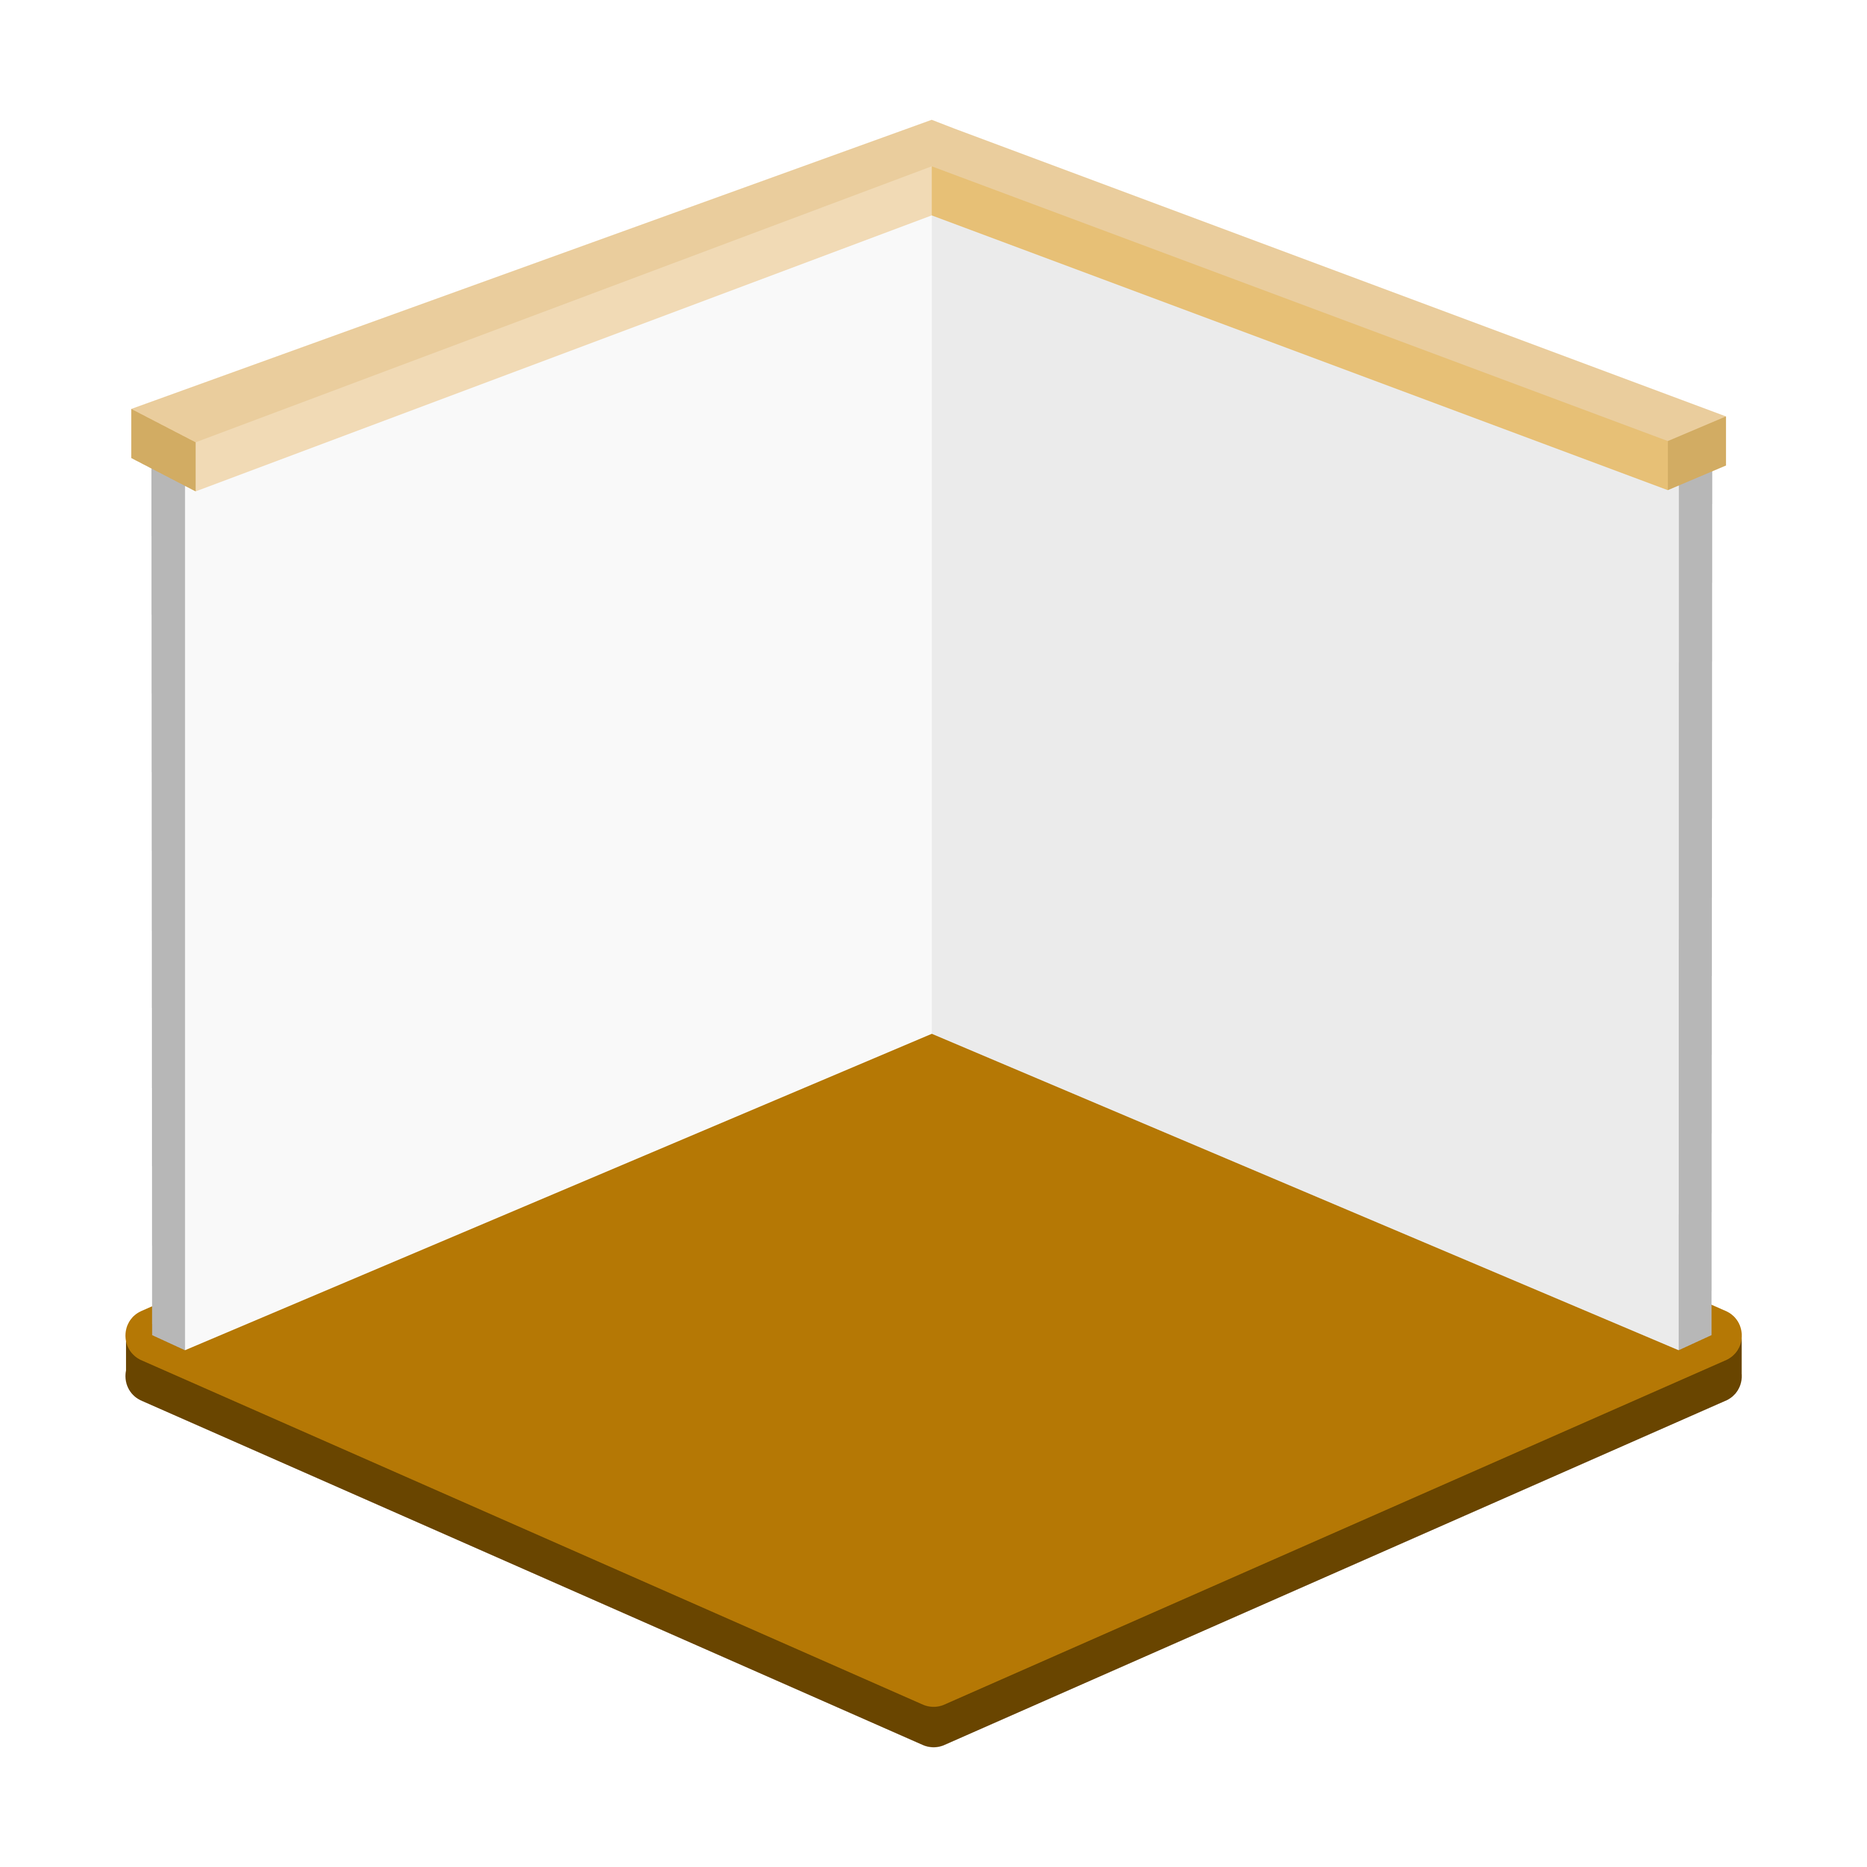
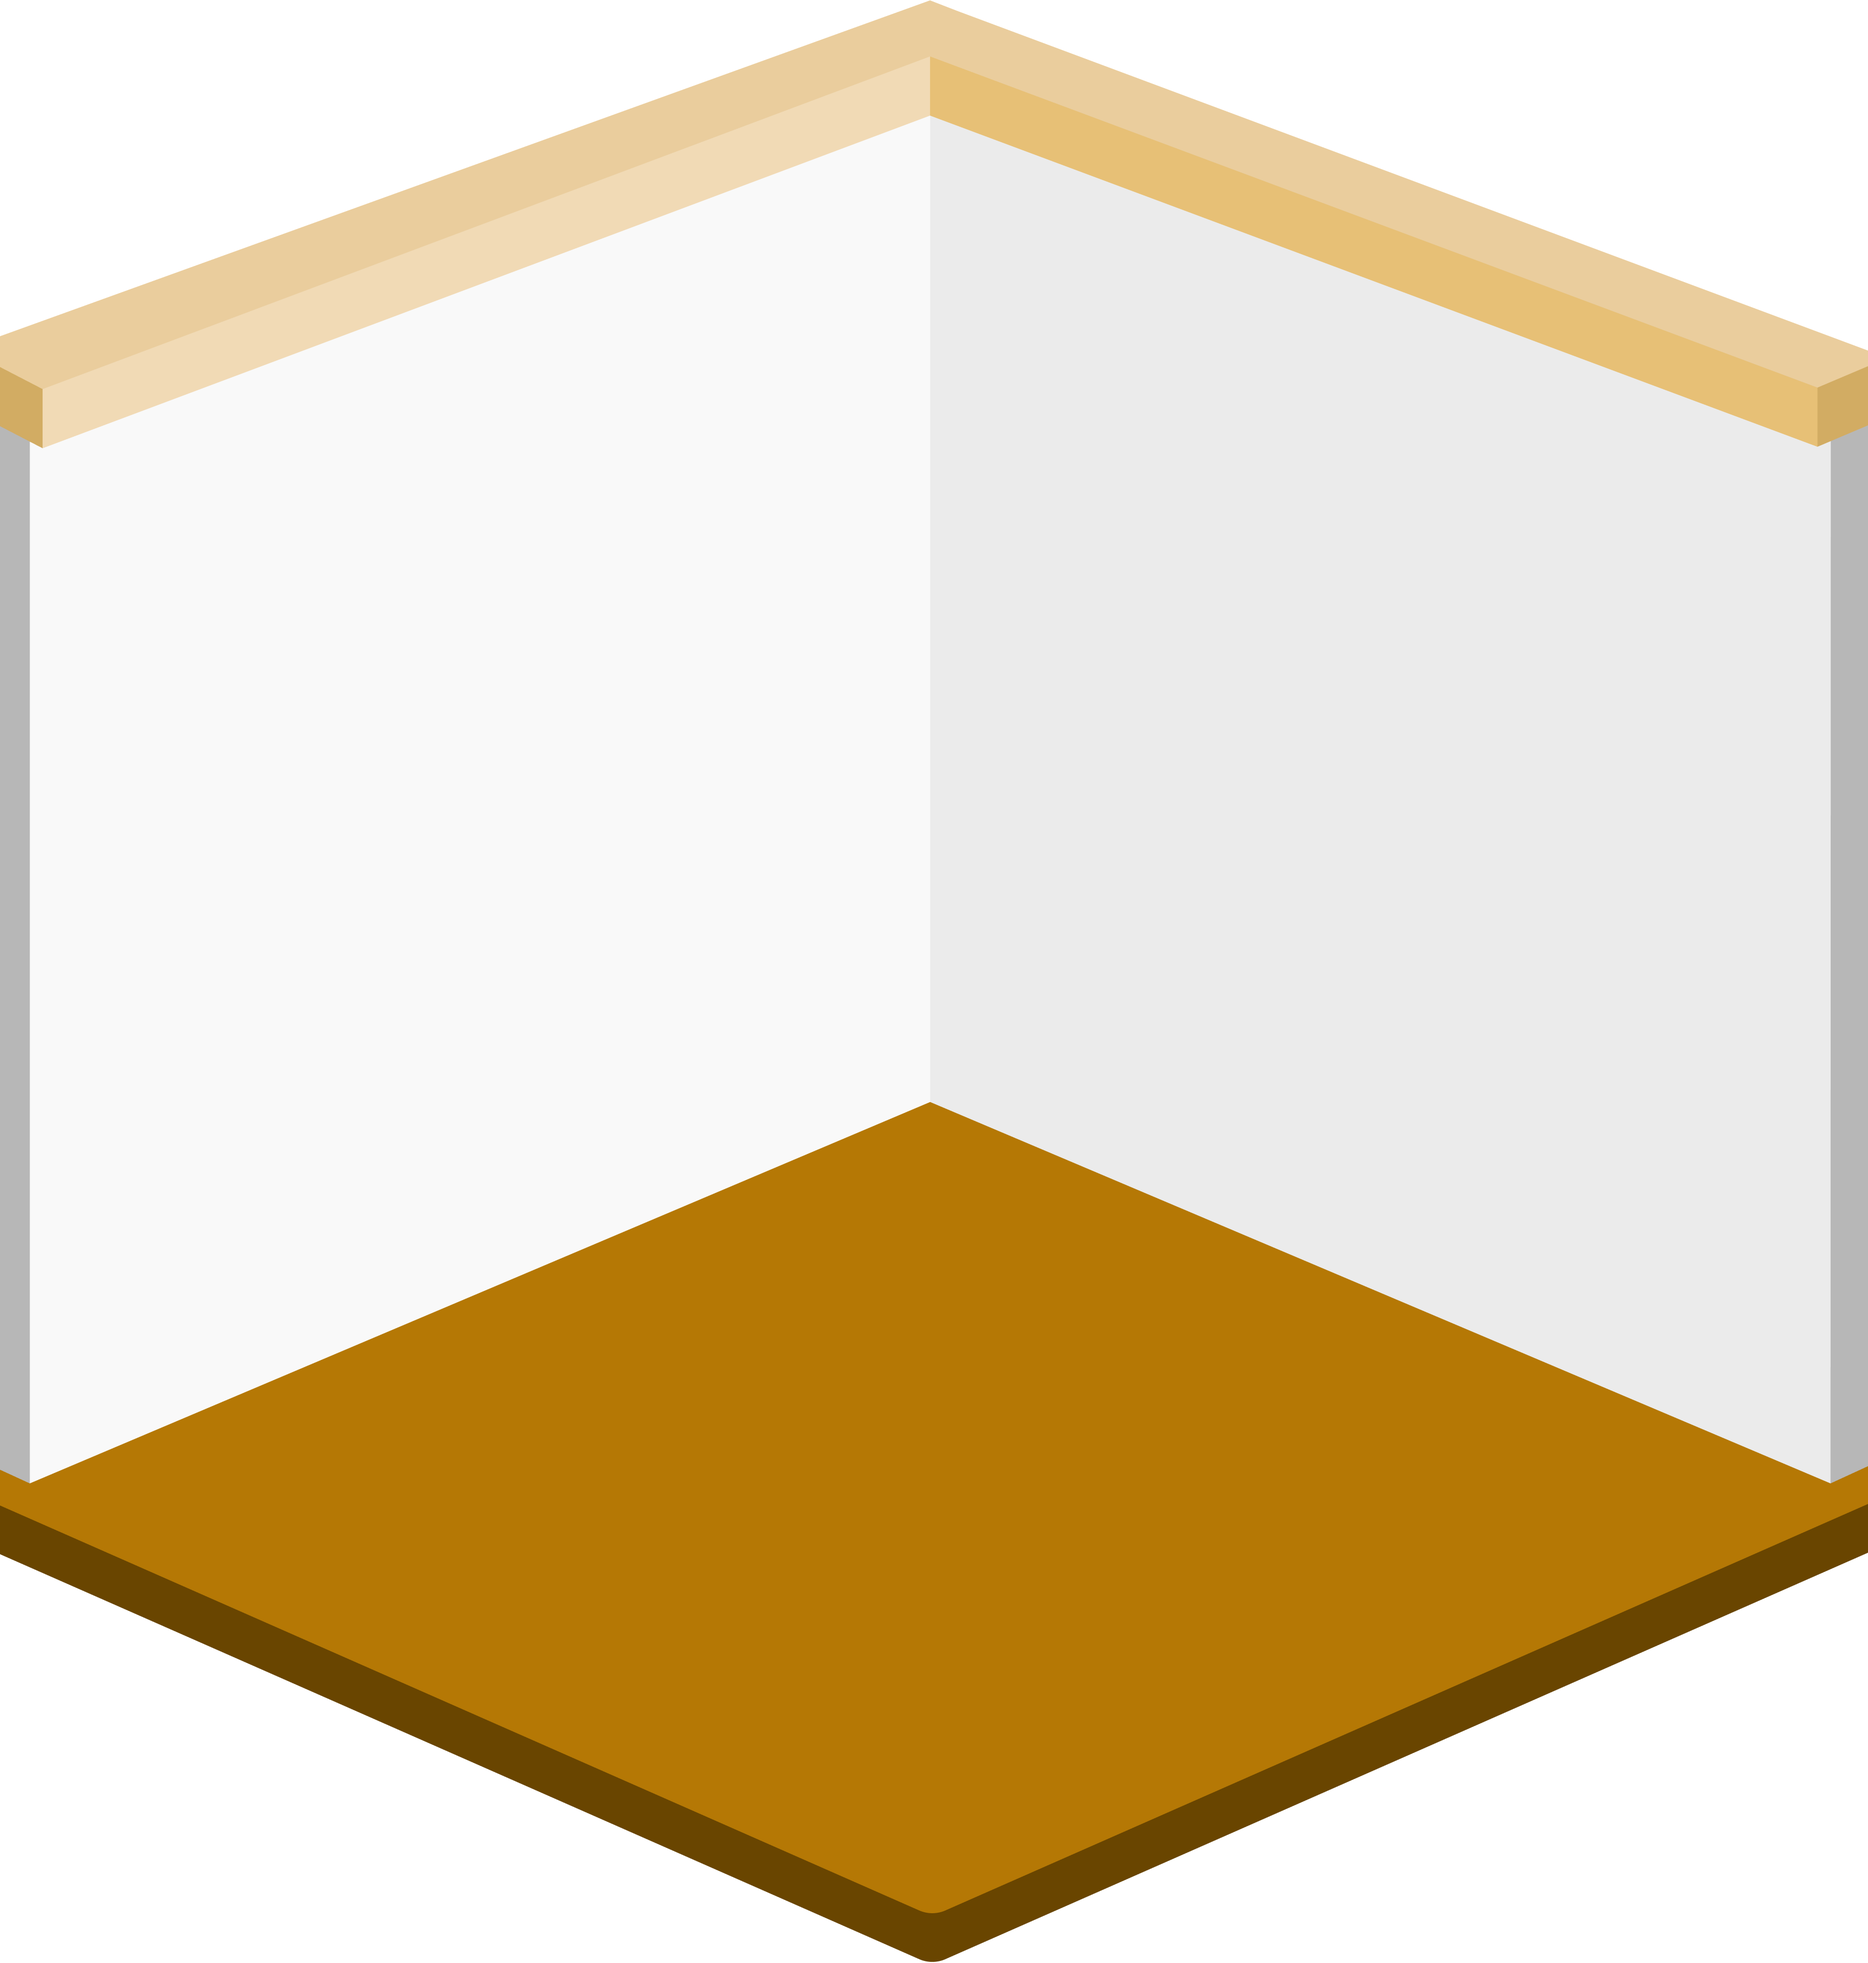
fix: update room scaling logic and adjust background image sources for improved layout

diff --git a/src/features/room-customizer/ui/Room.tsx b/src/features/room-customizer/ui/Room.tsx
@@ -47,16 +47,16 @@ const Room = () => {
 
   const getRoomScale = (mode: string): number => {
     if (mode !== "home" && windowWidth >= 500) return 0.8;
-    if (mode !== "home") return 1;
-    if (windowWidth >= 1024) return 1.125; // 데스크탑
-    if (windowWidth >= 768) return 1.25; // 태블릿
-    return 1.25;
+    if (mode !== "home") return 0.8;
+    if (windowWidth >= 1024) return 1.08125; // 데스크탑
+    if (windowWidth >= 768) return 1.125; // 태블릿
+    return 1.125;
   };
 
   const getRoomY = (mode: string, width: number): number => {
     if (mode === "inventory") {
       if (width >= 500) return -40; // 태블릿
-      return -100; // 모바일
+      return -60; // 모바일
     } else {
       if (width >= 1024) return -90; // 데스크탑
       if (width >= 768) return -100; // 태블릿
@@ -84,8 +84,15 @@ const Room = () => {
         className="relative w-full h-full flex flex-col items-center justify-center  overflow-hidden"
       >
         <Image
-          src="/image/home/roomDefaultWall.png"
+          src="https://regreen-bucket.s3.ap-northeast-2.amazonaws.com/images/constant/furniture/20250524-00.png"
           alt="배경"
+          width={1000}
+          height={1000}
+          className={`absolute `}
+        />
+        <Image
+          src="https://regreen-bucket.s3.ap-northeast-2.amazonaws.com/images/constant/furniture/20250524-01.png"
+          alt="방 배경"
           width={1000}
           height={1000}
           className={`absolute `}
@@ -110,7 +117,7 @@ const Room = () => {
             alt="배경 필터"
             width={1000}
             height={1000}
-            className="absolute z-[-10] bottom-[130px] md:bottom-[150px]   w-full h-full"
+            className="absolute z-[-10] bottom-[80px] md:bottom-[150px]   w-full h-full"
           />
         </div>
       </motion.div>
